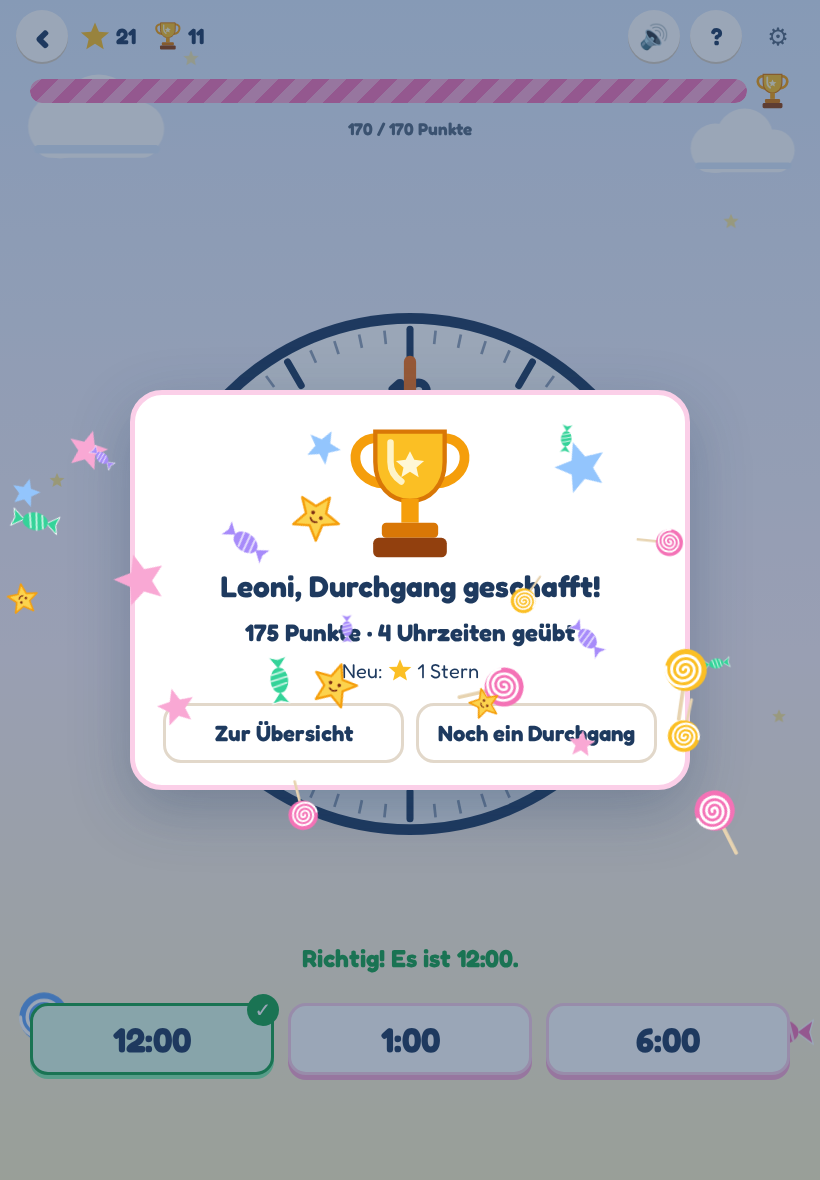
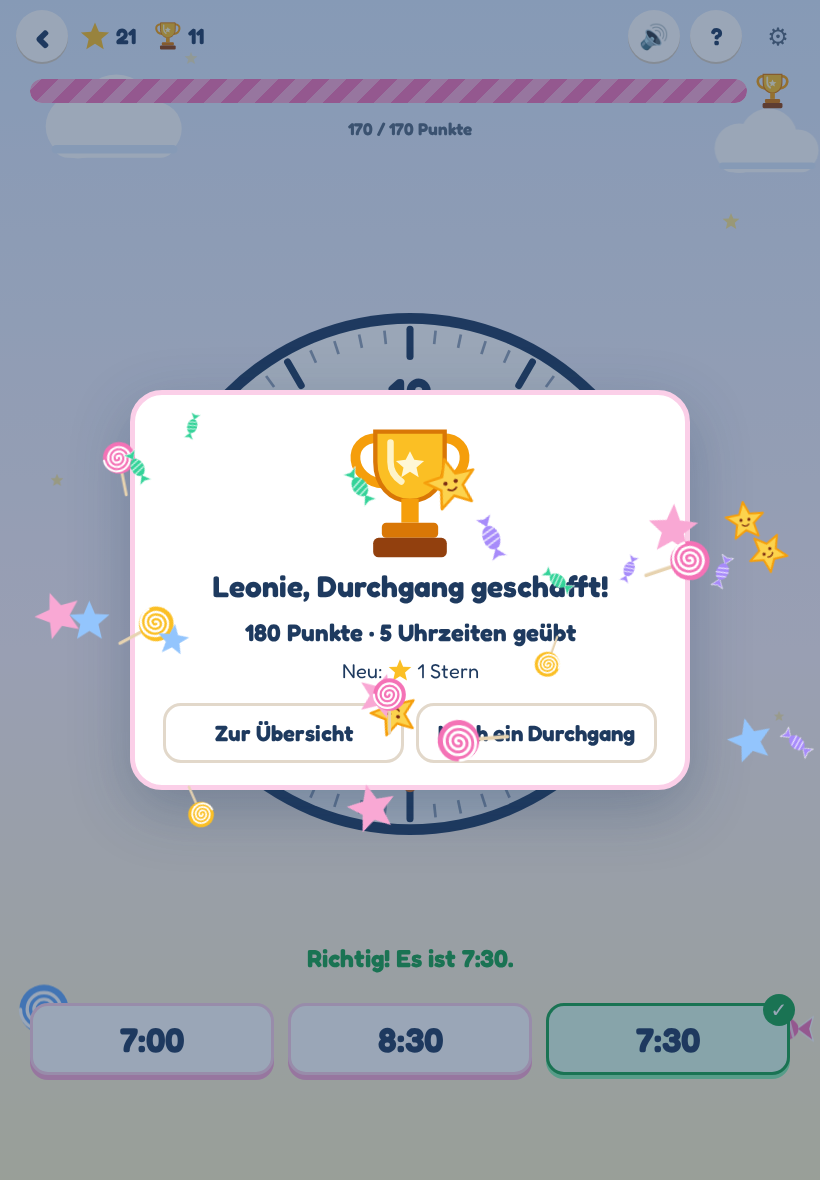
Name is Leonie: Leonies Lernwelt

diff --git a/index.html b/index.html
@@ -6,7 +6,7 @@
     <meta name="theme-color" content="#fdf6ec" />
     <meta name="apple-mobile-web-app-capable" content="yes" />
     <meta name="mobile-web-app-capable" content="yes" />
-    <title>Leonis Lernwelt</title>
+    <title>Leonies Lernwelt</title>
     <link rel="icon" href="./favicon.svg" type="image/svg+xml" />
   </head>
   <body>

diff --git a/src/config.ts b/src/config.ts
@@ -1,3 +1,3 @@
 /** Names shown in the app; change here to personalise. */
-export const APP_NAME = 'Leonis Lernwelt';
-export const CHILD_NAME = 'Leoni';
+export const APP_NAME = 'Leonies Lernwelt';
+export const CHILD_NAME = 'Leonie';

diff --git a/README.md b/README.md
@@ -1,9 +1,9 @@
-# Leonis Lernwelt
+# Leonies Lernwelt
 
 Eine kleine Lern-App für Kinder im Grundschulalter, gemacht für das Tablet. Sie läuft
 einfach im Browser – ohne Installation, ohne Konto, ohne Werbung.
 
-Das erste Modul heißt **„Die Uhr“**: Leoni (8) lernt damit, die Zeigeruhr zu lesen.
+Das erste Modul heißt **„Die Uhr“**: Leonie (8) lernt damit, die Zeigeruhr zu lesen.
 Weitere Module folgen.
 
 **Ausprobieren:** [lernwelt.nieda.de](https://lernwelt.nieda.de)
